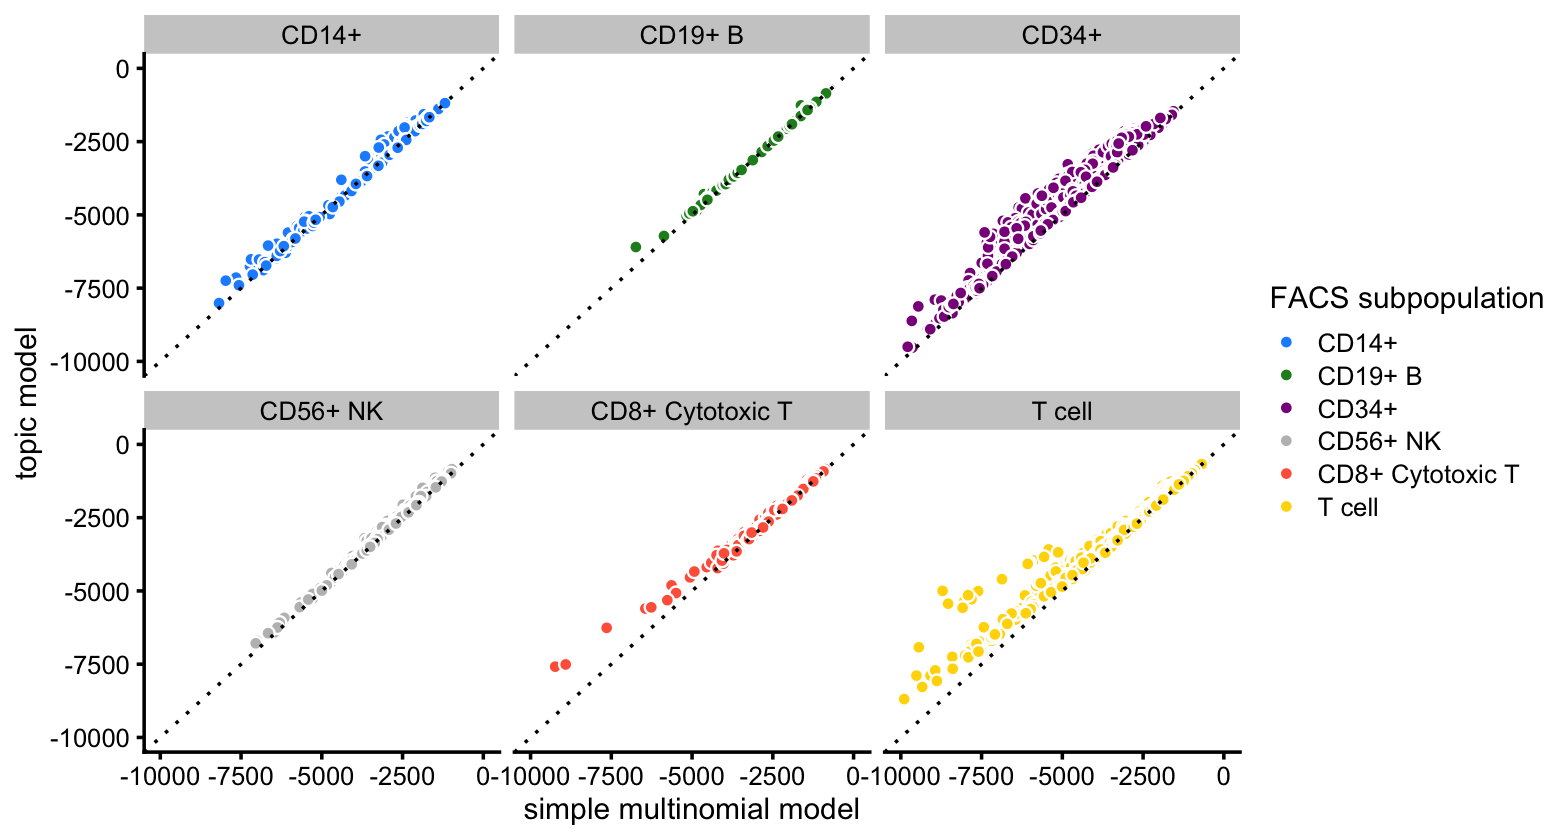
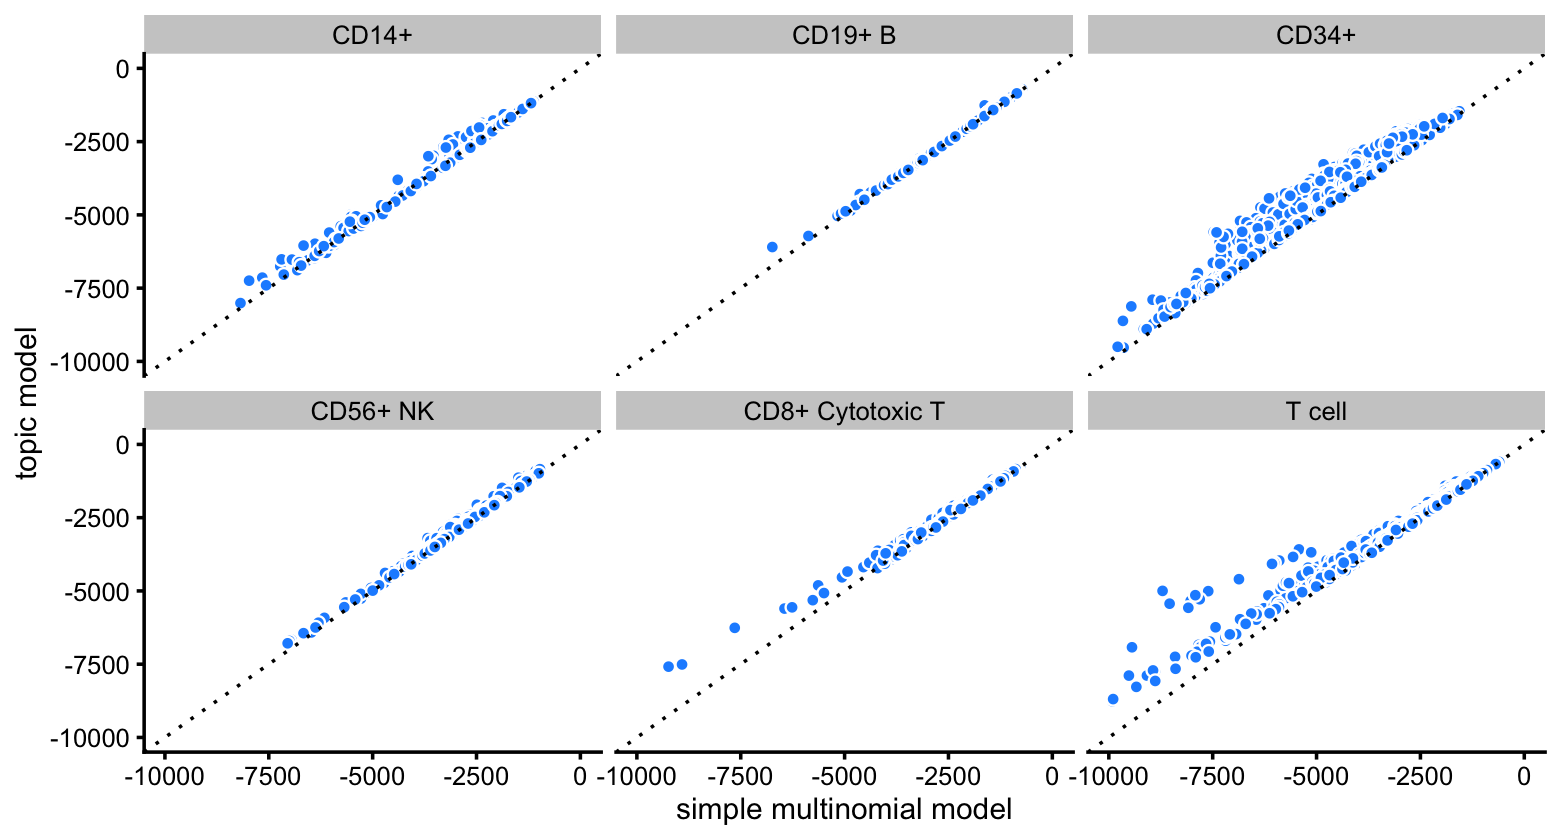
Adjusted plots in loglik_purified_pbmc analysis.

diff --git a/docs/loglik_purified_pbmc.html b/docs/loglik_purified_pbmc.html
@@ -414,23 +414,22 @@ This reproducible <a href="http://rmarkdown.rstudio.com">R Markdown</a> analysis
 <div class="panel panel-default">
 <div class="panel-heading">
 <p class="panel-title">
-<a data-toggle="collapse" data-parent="#workflowr-checks" href="#strongRepositoryversionstrongahrefhttpsgithubcomstephenslabsinglecelltopicstree88cd3c5837e98e5f869b1e041c1f528fe4b1a286targetblank88cd3c5a"> <span class="glyphicon glyphicon-ok text-success" aria-hidden="true"></span> <strong>Repository version:</strong> <a href="https://github.com/stephenslab/single-cell-topics/tree/88cd3c5837e98e5f869b1e041c1f528fe4b1a286" target="_blank">88cd3c5</a> </a>
+<a data-toggle="collapse" data-parent="#workflowr-checks" href="#strongRepositoryversionstrongahrefhttpsgithubcomstephenslabsinglecelltopicstree637feed71117c5a7e6f2b9d402dfa061728d94c7targetblank637feeda"> <span class="glyphicon glyphicon-ok text-success" aria-hidden="true"></span> <strong>Repository version:</strong> <a href="https://github.com/stephenslab/single-cell-topics/tree/637feed71117c5a7e6f2b9d402dfa061728d94c7" target="_blank">637feed</a> </a>
 </p>
 </div>
[2 lines of base64/hex data omitted]
 <div class="panel-body">
 <p>
 Great! You are using Git for version control. Tracking code development and connecting the code version to the results is critical for reproducibility.
 </p>
 <p>
-The results in this page were generated with repository version <a href="https://github.com/stephenslab/single-cell-topics/tree/88cd3c5837e98e5f869b1e041c1f528fe4b1a286" target="_blank">88cd3c5</a>. See the <em>Past versions</em> tab to see a history of the changes made to the R Markdown and HTML files.
+The results in this page were generated with repository version <a href="https://github.com/stephenslab/single-cell-topics/tree/637feed71117c5a7e6f2b9d402dfa061728d94c7" target="_blank">637feed</a>. See the <em>Past versions</em> tab to see a history of the changes made to the R Markdown and HTML files.
 </p>
 <p>
 Note that you need to be careful to ensure that all relevant files for the analysis have been committed to Git prior to generating the results (you can use <code>wflow_publish</code> or <code>wflow_git_commit</code>). workflowr only checks the R Markdown file, but you know if there are other scripts or data files that it depends on. Below is the status of the Git repository when the results were generated:
 </p>
 <pre><code>
 Ignored files:
-    Ignored:    analysis/figure/
     Ignored:    data/droplet.RData
     Ignored:    data/pbmc_68k.RData
     Ignored:    data/pbmc_purified.RData
@@ -448,7 +447,7 @@ Ignored files:
     Ignored:    output/pulseseq/rds/
 
 Untracked files:
-    Untracked:  analysis/clustering-pbmc-purified.rds
+    Untracked:  .DS_Store
     Untracked:  analysis/plots_purified_pbmc_cache/
     Untracked:  plots/
 
@@ -493,6 +492,40 @@ Message
 </tr>
 </thead>
 <tbody>
+<tr>
+<td>
+Rmd
+</td>
+<td>
+<a href="https://github.com/stephenslab/single-cell-topics/blob/637feed71117c5a7e6f2b9d402dfa061728d94c7/analysis/loglik_purified_pbmc.Rmd" target="_blank">637feed</a>
+</td>
+<td>
+Peter Carbonetto
+</td>
+<td>
+2021-01-21
+</td>
+<td>
+workflowr::wflow_publish(“loglik_purified_pbmc.Rmd”)
+</td>
+</tr>
+<tr>
+<td>
+html
+</td>
+<td>
+<a href="https://rawcdn.githack.com/stephenslab/single-cell-topics/b921bf416bef98fae519e93d59444e0721ecb86c/docs/loglik_purified_pbmc.html" target="_blank">b921bf4</a>
+</td>
+<td>
+Peter Carbonetto
+</td>
+<td>
+2021-01-21
+</td>
+<td>
+Revised “simple multinomial model” calculations in
+</td>
+</tr>
 <tr>
 <td>
 Rmd
@@ -1056,6 +1089,17 @@ Date
 <tbody>
 <tr>
 <td>
+<a href="https://github.com/stephenslab/single-cell-topics/blob/b921bf416bef98fae519e93d59444e0721ecb86c/docs/figure/loglik_purified_pbmc.Rmd/loglik-5-1.png" target="_blank">b921bf4</a>
+</td>
+<td>
+Peter Carbonetto
+</td>
+<td>
+2021-01-21
+</td>
+</tr>
+<tr>
+<td>
 <a href="https://github.com/stephenslab/single-cell-topics/blob/1a636e42a34efde836aa7714e6903819cb665e59/docs/figure/loglik_purified_pbmc.Rmd/loglik-5-1.png" target="_blank">1a636e4</a>
 </td>
 <td>
@@ -1092,15 +1136,13 @@ Peter Carbonetto
 </div>
 </div>
 <p>The improvement in fit is greatest for cells in the CD34+ and T cell FACS subpopulations:</p>
-<pre class="r"><code>p1 &lt;- ggplot(pdat,aes(x = x,y = y,fill = celltype)) +
-  geom_point(shape = 21,color = &quot;white&quot;) +
+<pre class="r"><code>p1 &lt;- ggplot(pdat,aes(x = x,y = y)) +
+  geom_point(shape = 21,color = &quot;white&quot;,fill = &quot;dodgerblue&quot;) +
   geom_abline(intercept = 0,slope = 1,linetype = &quot;dotted&quot;) +
   facet_wrap(vars(celltype)) +
   scale_x_continuous(limits = c(-10000,0),breaks = seq(-10000,0,2500)) +
   scale_y_continuous(limits = c(-10000,0),breaks = seq(-10000,0,2500)) +
-  scale_fill_manual(values = facs_colors) +
-  labs(x = &quot;simple multinomial model&quot;,y = &quot;topic model&quot;,
-       fill = &quot;FACS subpopulation&quot;) +
+  labs(x = &quot;simple multinomial model&quot;,y = &quot;topic model&quot;) +
   theme_cowplot(font_size = 9)
 print(p1)
 # Warning: Removed 7 rows containing missing values (geom_point).</code></pre>
@@ -1127,6 +1169,17 @@ Date
 </tr>
 </thead>
 <tbody>
+<tr>
+<td>
+<a href="https://github.com/stephenslab/single-cell-topics/blob/b921bf416bef98fae519e93d59444e0721ecb86c/docs/figure/loglik_purified_pbmc.Rmd/loglik-6-1.png" target="_blank">b921bf4</a>
+</td>
+<td>
+Peter Carbonetto
+</td>
+<td>
+2021-01-21
+</td>
+</tr>
 <tr>
 <td>
 <a href="https://github.com/stephenslab/single-cell-topics/blob/1a636e42a34efde836aa7714e6903819cb665e59/docs/figure/loglik_purified_pbmc.Rmd/loglik-6-1.png" target="_blank">1a636e4</a>
@@ -1172,7 +1225,7 @@ loglik_clusters &lt;- loglik_multinom_topic_model(counts,fit_clusters)</code></p
 <p>This is an interesting example where defining a separate cluster for the dendritic cells can actually yield a <em>better</em> fit than the topic model. However, because only 308 cells are in this cluster (0.3% of the total), the overall impact on model fit is small.</p>
 <pre class="r"><code>pdat &lt;- data.frame(x = loglik_clusters,y = loglik,cluster = samples$cluster)
 ggplot(pdat,aes(x = x,y = y)) +
-  geom_point(shape = 21,color = &quot;white&quot;,fill = &quot;royalblue&quot;) +
+  geom_point(shape = 21,color = &quot;white&quot;,fill = &quot;dodgerblue&quot;) +
   geom_abline(intercept = 0,slope = 1,linetype = &quot;dotted&quot;) +
   facet_wrap(vars(cluster)) +
   scale_x_continuous(limits = c(-10000,0),breaks = seq(-10000,0,2500)) +
@@ -1203,6 +1256,17 @@ Date
 </tr>
 </thead>
 <tbody>
+<tr>
+<td>
+<a href="https://github.com/stephenslab/single-cell-topics/blob/b921bf416bef98fae519e93d59444e0721ecb86c/docs/figure/loglik_purified_pbmc.Rmd/loglik-8-1.png" target="_blank">b921bf4</a>
+</td>
+<td>
+Peter Carbonetto
+</td>
+<td>
+2021-01-21
+</td>
+</tr>
 <tr>
 <td>
 <a href="https://github.com/stephenslab/single-cell-topics/blob/256141bac5feeb386a8317186a97e9965da867c1/docs/figure/loglik_purified_pbmc.Rmd/loglik-8-1.png" target="_blank">256141b</a>
